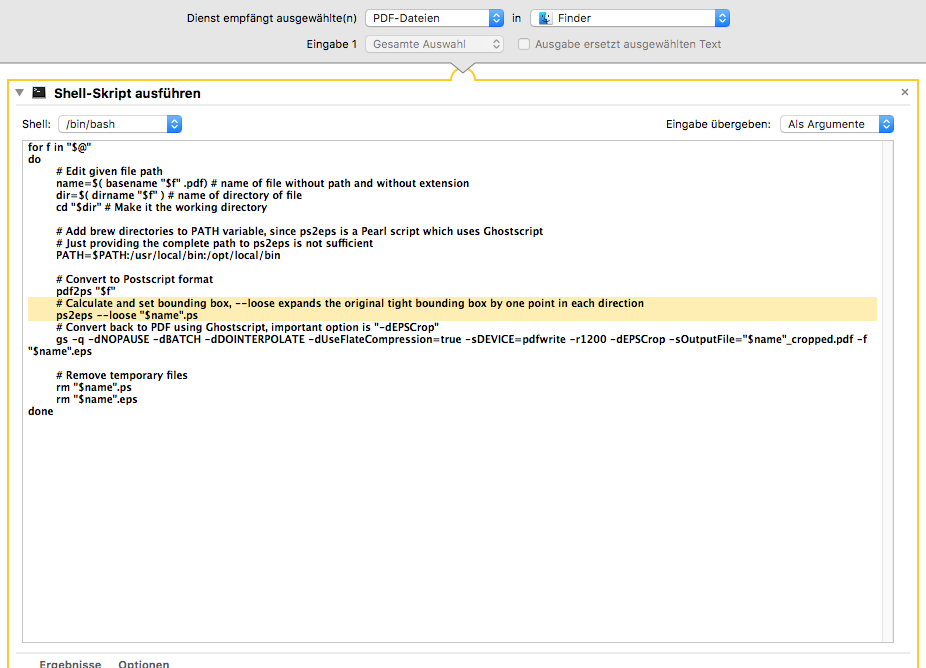
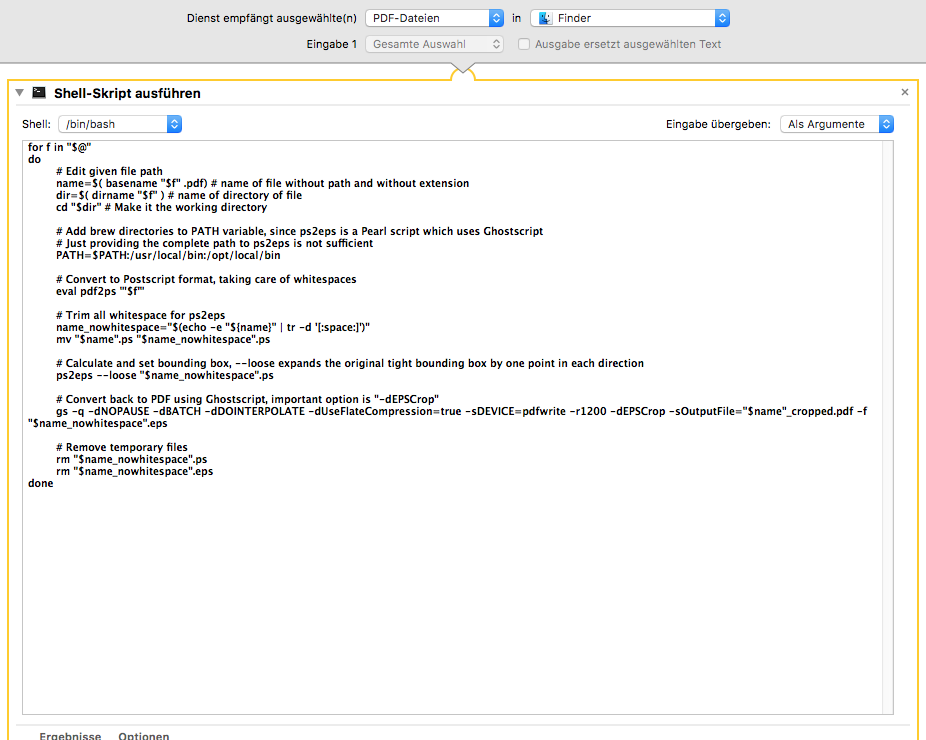
Now works for files with names containing whitespace

Changed region(s): [[0.0, 0.0, 1.0, 0.6587], [0.0302, 0.9581, 0.9676, 1.0], [0.6955, 0.1497, 0.9676, 0.2096]]

diff --git a/README.md b/README.md
@@ -42,16 +42,22 @@ do
 	# Just providing the complete path to ps2eps is not sufficient
 	PATH=$PATH:/usr/local/bin:/opt/local/bin
 
-	# Convert to Postscript format
-	pdf2ps "$f"
+	# Convert to Postscript format, taking care of whitespaces
+	eval pdf2ps "'$f'"
+
+	# Trim all whitespace for ps2eps
+	name_nowhitespace="$(echo -e "${name}" | tr -d '[:space:]')"
+	mv "$name".ps "$name_nowhitespace".ps
+
 	# Calculate and set bounding box, --loose expands the original tight bounding box by one point in each direction
-	ps2eps --loose "$name".ps
+	ps2eps --loose "$name_nowhitespace".ps
+
 	# Convert back to PDF using Ghostscript, important option is "-dEPSCrop"
-	gs -q -dNOPAUSE -dBATCH -dDOINTERPOLATE -dUseFlateCompression=true -sDEVICE=pdfwrite -r1200 -dEPSCrop -sOutputFile="$name"_cropped.pdf -f "$name".eps
+	gs -q -dNOPAUSE -dBATCH -dDOINTERPOLATE -dUseFlateCompression=true -sDEVICE=pdfwrite -r1200 -dEPSCrop -sOutputFile="$name"_cropped.pdf -f "$name_nowhitespace".eps
 
 	# Remove temporary files
-	rm "$name".ps
-	rm "$name".eps
+	rm "$name_nowhitespace".ps
+	rm "$name_nowhitespace".eps
 done
 ```
 
